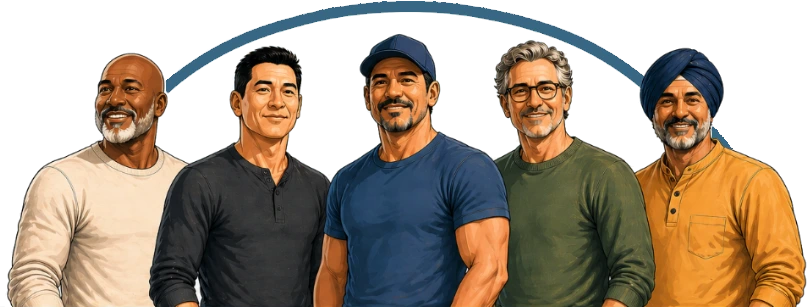
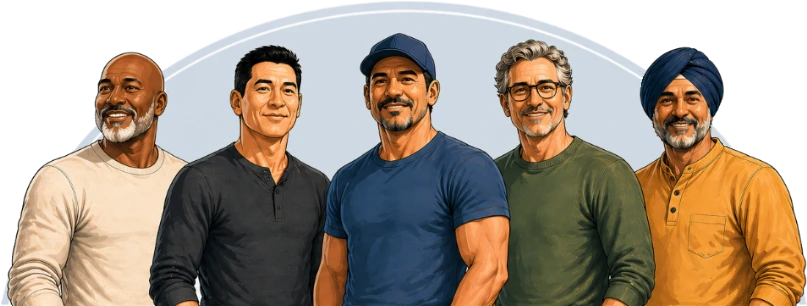
completed hero section and added divider
- replaced rando-dads-with-arch image
- completed layout, responsiveness, and styling of hero section
- added a divider section under the hero section

diff --git a/src/app/page.module.css b/src/app/page.module.css
@@ -26,37 +26,170 @@
   height: auto;
 }
 
+/* Hero Section */
+
 .hero-outer-div {
   display: flex;
-  justify-content: center;
+  flex-direction: column;
+  align-items: center;
+  justify-content: space-evenly;
   padding-top: 2rem;
+  padding-right: 1rem;
+  padding-left: 1rem;
   background-color: var(--primary-background-color);
   color: var(--primary-text-color);
+  border-bottom: solid 1px #d0d9e4;
+}
+
+@media only screen and (min-width: 1000px) {
+  .hero-outer-div {
+    padding-right: 0;
+    padding-left: 0;
+  }
+}
+
+@media only screen and (min-width: 1400px) {
+  .hero-outer-div {
+    flex-direction: row;
+    padding-left: 1rem;
+    padding-right: 1rem;
+  }
+}
+
+@media only screen and (min-width: 825px) {
+  .hero-impact-text-div {
+    display: flex;
+    flex-wrap: wrap;
+    gap: 1rem;
+  }
+}
+
+@media only screen and (min-width: 1400px) {
+  .hero-impact-text-div {
+    flex-direction: column;
+    gap: 0;
+  }
 }
 
 .hero-impact-text {
   font-family: var(--font-spectral-sc-extra-bold), serif;
   color: var(--primary-text-color);
-  font-size: 2.5rem;
-  line-height: 2.5rem;
+  font-size: 2rem;
+  line-height: 2rem;
 }
 
-.hero-impact-text-standout {
+@media only screen and (min-width: 1000px) {
+  .hero-impact-text {
+    font-size: 2.5rem;
+    line-height: 2.5rem;
+  }
+}
+
+.hero-standout-text {
   font-family: var(--font-fredericka), serif;
-  color: #bd5103;
-  font-size: 3.25rem;
-  line-height: 3.25rem;
+  color: #bb5104;
+  font-size: 2.75rem;
+  line-height: 3rem;
+}
+
+@media only screen and (min-width: 825px) {
+  .hero-standout-text {
+    text-align: center;
+  }
+}
+
+@media only screen and (min-width: 1000px) {
+  .hero-standout-text {
+    font-size: 3.25rem;
+    line-height: 3.25rem;
+  }
+}
+
+@media only screen and (min-width: 1400px) {
+  .hero-standout-text {
+    text-align: left;
+  }
+}
+
+.hero-subtext-div {
+  display: flex;
+  flex-wrap: wrap;
+  padding-bottom: 2rem;
+}
+
+@media only screen and (min-width: 825px) {
+  .hero-subtext-div {
+    justify-content: center;
+  }
+}
+
+@media only screen and (min-width: 1400px) {
+  .hero-subtext-div {
+    flex-direction: column;
+    justify-content: flex-start;
+  }
 }
 
 .hero-subtext {
   font-family: var(--font-manrope), sans-serif;
   color: var(--primary-text-color);
-  font-size: 1.25rem;
-  line-height: 1.75rem;
+  font-size: 1.1rem;
+  line-height: 1.1rem;
   font-weight: 600;
 }
 
-.hero-inner-div {
-  padding-top: 1rem;
-  padding-bottom: 2rem;
+@media only screen and (min-width: 1000px) {
+  .hero-subtext {
+    font-size: 1.25rem;
+    line-height: 1.75rem;
+  }
 }
+
+.hero-image {
+  width: 100%;
+  max-width: 808px;
+  height: auto;
+}
+
+/* Divider Section */
+
+.divider {
+  display: flex;
+  align-items: center;
+  text-align: center;
+  padding: 1rem;
+}
+
+@media only screen and (min-width: 825px) {
+  .divider {
+    padding-right: 3rem;
+    padding-left: 3rem;
+  }
+}
+
+.divider::before,
+.divider::after {
+  content: "";
+  flex: 1;
+  height: 1px;
+  background: #d0d9e4;
+}
+
+.divider-text {
+  font-family: var(--font-manrope), sans-serif;
+  color: var(--primary-text-color);
+  font-size: 1rem;
+  line-height: 1.75rem;
+  padding-right: 0.5rem;
+  padding-left: 0.5rem;
+}
+
+@media only screen and (min-width: 825px) {
+  .divider-text {
+    font-size: 1rem;
+    padding-right: 1rem;
+    padding-left: 1rem;
+  }
+}
+
+/* Nav Cards Section */

diff --git a/src/app/page.tsx b/src/app/page.tsx
@@ -17,11 +17,13 @@ export default function Home() {
       </h1>
       <div className={styles["hero-outer-div"]}>
         <div>
-          <p className={styles["hero-impact-text"]}>REAL LOVE.</p>
-          <p className={styles["hero-impact-text"]}>REAL KNOWLEDGE.</p>
-          <p className={styles["hero-impact-text"]}>REAL JOKES.</p>
-          <p className={styles["hero-impact-text-standout"]}>REAL DADS.</p>
-          <div className={styles["hero-inner-div"]}>
+          <div className={styles["hero-impact-text-div"]}>
+            <p className={styles["hero-impact-text"]}>REAL LOVE.</p>
+            <p className={styles["hero-impact-text"]}>REAL KNOWLEDGE.</p>
+            <p className={styles["hero-impact-text"]}>REAL JOKES.</p>
+          </div>
+          <p className={styles["hero-standout-text"]}>REAL DADS.</p>
+          <div className={styles["hero-subtext-div"]}>
             <p className={styles["hero-subtext"]}>
               Sharing all the things that make dads great,
             </p>
@@ -35,8 +37,11 @@ export default function Home() {
           alt="A group of dads under an arch"
           priority
           sizes="(max-width: 900px) 100vw, 808px"
-          style={{ width: "100%", maxWidth: "808px", height: "auto" }}
+          className={styles["hero-image"]}
         />
+      </div>
+      <div className={styles["divider"]}>
+        <p className={styles["divider-text"]}>Because sometimes, you just need a dad.</p>
       </div>
     </main>
   );